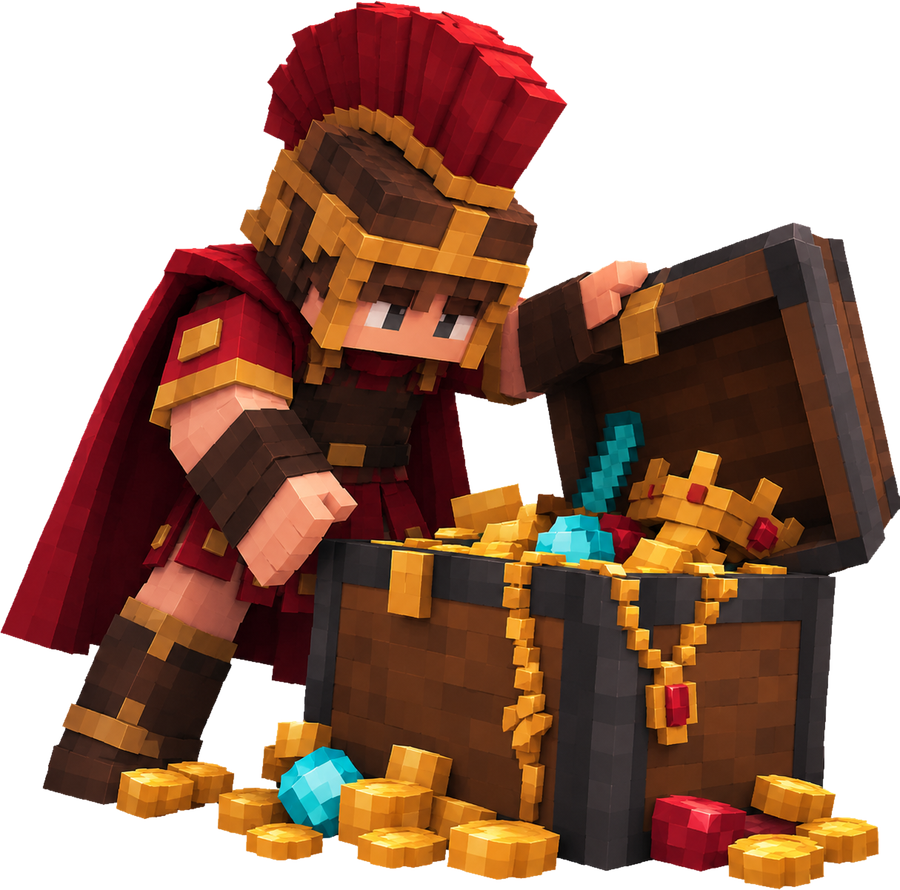
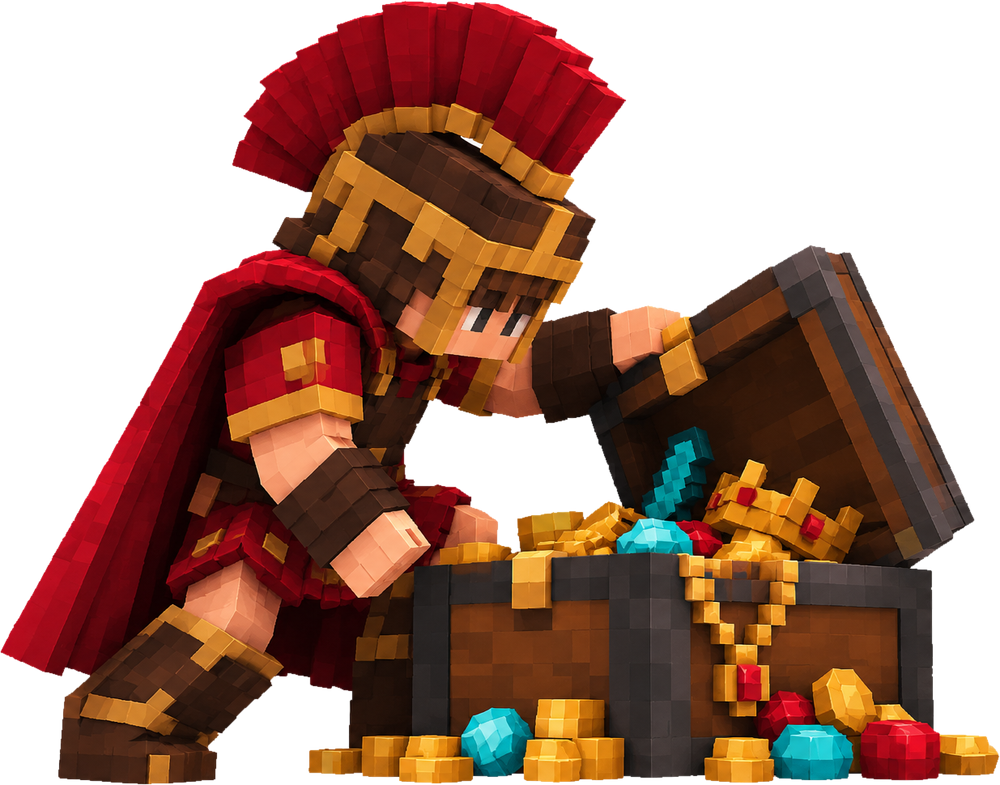
Goldone: nuovo legionario, testo esplicativo, niente vuoto sopra; footer su una riga
- Nuovo legionario col forziere (sfondo a scacchi rimosso), ritagliato
  ai piedi: poggia sul fondo del riquadro
- Testo del Goldone più chiaro e meno da gioco di ruolo
- Riquadri Goldone e Discord: il testo è centrato in altezza, così non
  resta spazio vuoto sopra; l'immagine resta appoggiata in basso
- Footer: solo news, regole, forum, vota, store, staff, gestionale, su
  una riga da tablet in su

Claude-Session: https://claude.ai/code/session_01SiY5CGUp3guNsAmoJ9JZoU

diff --git a/app/page.tsx b/app/page.tsx
@@ -109,15 +109,16 @@ export default function Home() {
 
       {/* GOLDONI */}
       <section className="wrap section pt-0">
-        <div className="panel panel-flush grid items-end gap-6 pl-8 pt-8 md:pl-12 md:pt-12 lg:grid-cols-[1.2fr_1fr]" data-reveal>
-          <div className="grid gap-5 pb-8 pr-8 md:pb-12 md:pr-0" data-stagger="0.1">
+        <div className="panel panel-flush grid gap-2 pl-8 md:pl-12 lg:grid-cols-[1.15fr_1fr] lg:gap-6" data-reveal>
+          {/* Testo centrato in altezza: niente vuoto sopra; l'immagine resta appoggiata in basso */}
+          <div className="grid gap-5 self-center pr-8 pt-8 md:pt-12 lg:py-12 lg:pr-0" data-stagger="0.1">
             <div className="flex items-center gap-3">
               <Image src="/images/art/goldone.png" alt="" width={640} height={640} className="float-soft size-12" unoptimized />
               <span className="text-xs font-semibold uppercase tracking-[0.2em] text-accent">goldoni e store</span>
             </div>
             <h2 className="text-[length:var(--step-head)]">Il Goldone, moneta premium.</h2>
             <p className="max-w-xl text-muted">
-              Non è la valuta di gioco: vive a parte, e le sue regole saranno spiegate qui. Lo store è in preparazione.
+              Il Goldone è la valuta premium di Tiberius MC ed è separata dal denaro che usi in gioco: le due monete non si mescolano. Come ottenerlo e cosa puoi acquistare lo spiegheremo qui all&apos;apertura dello store.
             </p>
             <div>
               {siteConfig.links.store ? (
@@ -128,16 +129,16 @@ export default function Home() {
             </div>
           </div>
           {/* Il legionario poggia sul bordo del riquadro, come quelli del Discord */}
-          <div className="mx-auto w-full max-w-md self-end pr-6 md:pr-12" data-reveal="right" data-delay="0.2">
-            <Image src="/images/legionario-tesoro.png" alt="Un legionario di Tiberius MC apre un forziere pieno di Goldoni e gemme" width={900} height={890} className="block w-full" unoptimized />
+          <div className="mx-auto w-full max-w-lg self-end pr-6 pt-4 md:pr-12 lg:pt-12" data-reveal="right" data-delay="0.2">
+            <Image src="/images/legionario-tesoro.png" alt="Un legionario di Tiberius MC apre un forziere pieno di Goldoni e gemme" width={1000} height={785} className="block w-full" unoptimized />
           </div>
         </div>
       </section>
 
       {/* DISCORD */}
       <section className="wrap section pt-0">
-        <div className="panel panel-discord grid items-end gap-6 pl-8 pt-8 md:pl-12 md:pt-12 lg:grid-cols-[1.1fr_1fr]" data-reveal>
-          <div className="grid gap-5 pb-8 pr-8 md:pb-12 md:pr-0" data-stagger="0.08">
+        <div className="panel panel-discord grid gap-2 pl-8 md:pl-12 lg:grid-cols-[1.1fr_1fr] lg:gap-6" data-reveal>
+          <div className="grid gap-5 self-center pr-8 pt-8 md:pt-12 lg:py-12 lg:pr-0" data-stagger="0.08">
             <div className="flex items-center gap-3">
               <span className="grid size-12 place-items-center rounded-2xl bg-[#5865f2]/20 text-[#8c96ff]">
                 <DiscordIcon className="size-7" />
@@ -158,7 +159,7 @@ export default function Home() {
             </div>
           </div>
           {/* "block" toglie lo spazio sotto l'immagine: i legionari poggiano sul bordo del riquadro */}
-          <div className="mx-auto w-full max-w-md self-end pr-6 md:pr-12" data-reveal="right" data-delay="0.2">
+          <div className="mx-auto w-full max-w-md self-end pr-6 pt-4 md:pr-12 lg:pt-12" data-reveal="right" data-delay="0.2">
             <Image src="/images/legionari-telefono.png" alt="Due legionari romani di Tiberius MC che guardano uno smartphone" width={1000} height={914} className="block w-full" unoptimized />
           </div>
         </div>

diff --git a/components/Footer.tsx b/components/Footer.tsx
@@ -5,9 +5,18 @@ import { TiberiusLogo } from "@/components/TiberiusLogo";
 import { CopyIp } from "@/components/ui/CopyIp";
 import { DiscordIcon } from "@/components/ui/DiscordIcon";
 import { TelegramIcon } from "@/components/ui/TelegramIcon";
-import { pages, siteConfig } from "@/lib/site-config";
+import { siteConfig } from "@/lib/site-config";
 
-const nav = [...pages.map((p) => ({ href: p.href, label: p.short })), { href: "/portale", label: "portale giocatore" }];
+/* Solo le voci principali, su una riga: le altre pagine sono già nella barra in alto e nella home. */
+const nav = [
+  { href: "/news", label: "news" },
+  { href: "/regole", label: "regole" },
+  { href: "/forum", label: "forum" },
+  { href: "/vota", label: "vota" },
+  { href: "/store", label: "store" },
+  { href: "/staff", label: "staff" },
+  { href: "/portale", label: "gestionale" },
+];
 
 /** Riga informativa con piccola icona davanti. */
 function Line({ icon, children }: { icon: ReactNode; children: ReactNode }) {
@@ -44,7 +53,7 @@ export function Footer() {
           </Link>
 
           <nav aria-label="Pagine del sito" className="w-full">
-            <ul className="mx-auto flex max-w-2xl flex-wrap justify-center gap-x-6 gap-y-2.5 text-[0.9375rem] font-semibold text-white/75">
+            <ul className="mx-auto flex flex-wrap justify-center gap-x-6 gap-y-2.5 text-[0.9375rem] font-semibold text-white/75 md:flex-nowrap md:gap-x-7">
               {nav.map((p) => (
                 <li key={p.href}>
                   <Link href={p.href} className="foot-link">
